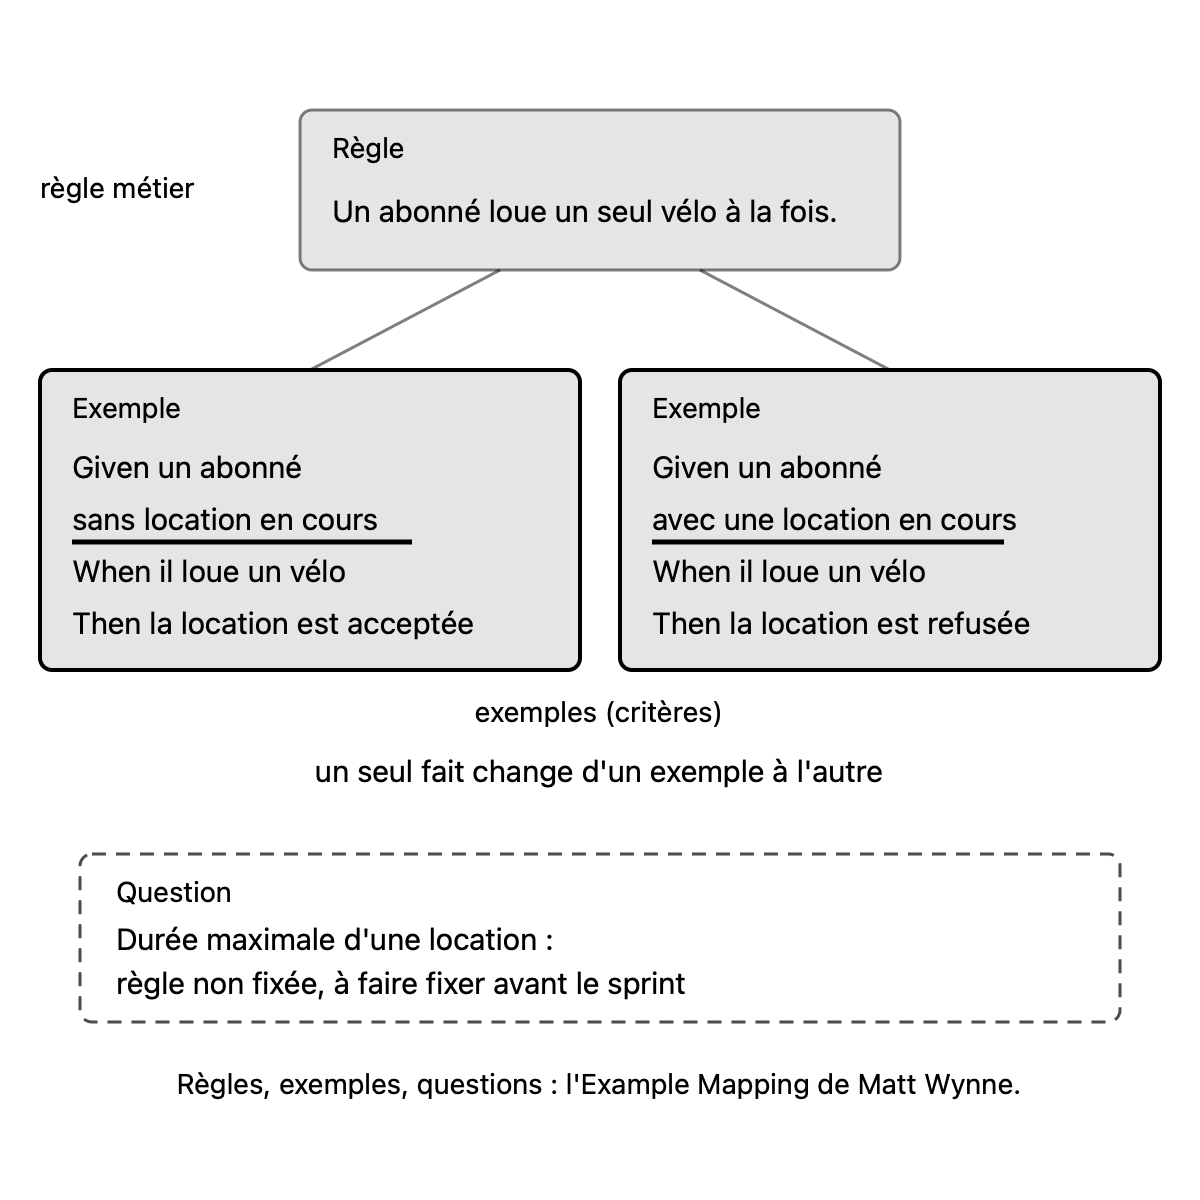
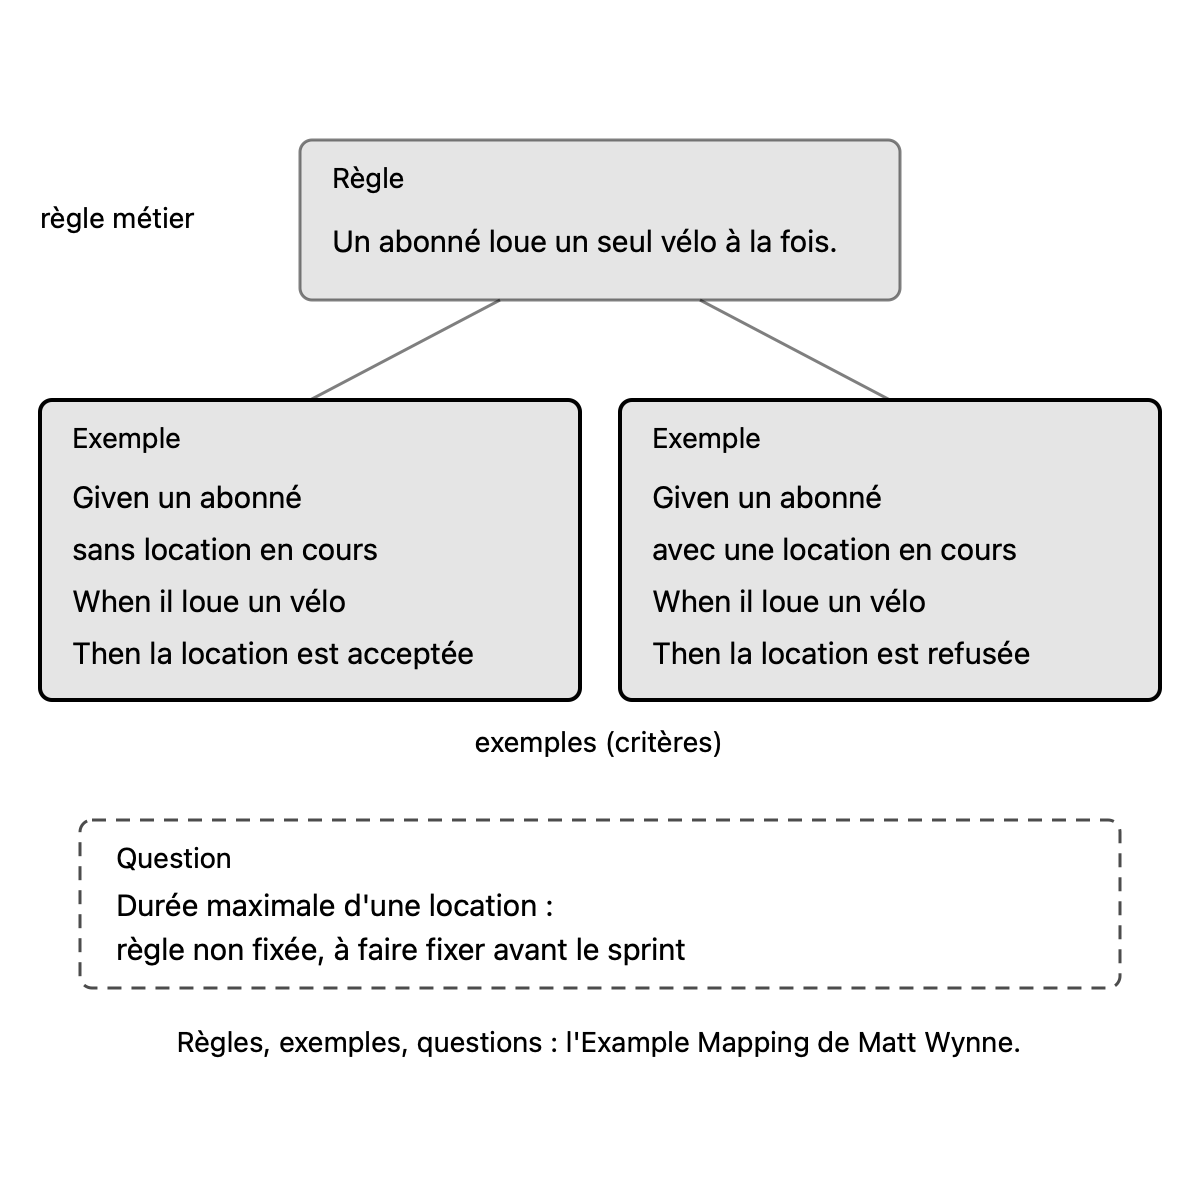
course(course:parcours-po): fix concept 8 after the review
Refs #23

diff --git a/construction/notes/S1-10-08-report.md b/construction/notes/S1-10-08-report.md
@@ -7,7 +7,7 @@ Old files: `parcours-po/course/concepts/08-criteres-regles.md` (CF), `parcours-p
 
 | checks | target existed | old diagrams | new diagrams | captions of more than one sentence |
 |---|---|---|---|---|
-| fail | no | 1 | 1 | 1 |
+| fail | no | 1 | 1 | 0 (1 before the fixes) |
 
 Result: **failed**. checks is read in code from the output below, which the check agent returns; target existed is read in code from the listing below, which the scope agent returns. The new concept is not compared with the old one (rule D on #23): the fresh-agent review judges it against SPEC.md and PROTOCOL.md.
 
@@ -40,8 +40,8 @@ Its sentences, where the inventory sends them (M11):
 
 #### regle-exemples-question.svg
 
-- Title: Une règle métier, deux exemples où un seul fait change, une règle non fixée
-- Caption: Une règle, deux exemples, une question. Les exemples en Given/When/Then illustrent la règle ; d'un exemple à l'autre, un seul fait change (souligné). Une règle non fixée reste une question, sans exemple dessous. Cas d'illustration inventé pour la page. (**4 sentences**: SPEC.md 7.2, principle 1)
+- Title: Une règle métier, deux exemples, une règle non fixée
+- Caption: Une règle métier est illustrée par des exemples en Given/When/Then, et une règle non fixée reste une question, sans exemple dessous. (1 sentence; the review reduced the diagram to 8a, dropped the one-variable note, and moved the invented-case sentence to sources.md)
 - Sub-concept: 8a
 - Idea: « Les critères sont souvent des exemples qui illustrent une règle, écrits en **Given/When/Then** (contexte, événement, résultat observable), **une variable à la fois**. Un critère ne fixe pas une règle restée ouverte. » (MDX and CF « L'essentiel » (Figure legende: « Les exemples en Given/When/Then illustrent la règle ; d'un exemple à l'autre, un seul fait change (souligné). Une règle non fixée reste une question, sans exemple dessous. »))
 
@@ -73,8 +73,8 @@ Renderings in `S1-10-08-report/`, beside this report.
 
 - M9 citation line: none added. The old « Sous-concepts » cites all five cases by their titles in « » (Trier les phrases de la story d'Abba, Le seuil des stations presque vides, Le critère d'Abba à corriger, Fraîcheur : que vérifie le Then ?, Les vélos disponibles d'Étienne), so « Consignes » is the old section verbatim.
 - M9: « Faits du fil rouge utilisés » is the old bank lead paragraph with its lead words « Faits du fil rouge utilisés : » dropped. The rest is verbatim, so the paragraph now starts in lowercase (« la story d'Abba … »). The bank has no other lead text.
-- M13 banned character: in teaching.md, « B1, ... retiré du service: 5 disponibles ; B2, ... signalé en panne: 6 disponibles » became ': 5 disponibles' and ': 6 disponibles' (ASCII: is banned by the French pack).
-- M13 banned character: in sources.md, the two rows 'Test rapide : « ... »: règle' and ': critère' became ': règle' and ': critère'.
+- M13 banned character: in teaching.md, « B1, ... retiré du service: 5 disponibles ; B2, ... signalé en panne: 6 disponibles » became ': 5 disponibles' and ': 6 disponibles' (the arrows of the old text, banned by the French pack, replaced by a colon).
+- M13 banned character: in sources.md, the two rows 'Test rapide : « ... »: règle' and ': critère' became ': règle' and ': critère' (the arrows of the old text replaced by a colon).
 - M10 structure: the old sub-tables (### Consensus et choix d'école, ### 8a, ### 8b, ### Renvois sans enseignement) are merged into the single « Affirmations » table that SPEC 4.4 requires. Rows keep their old order, and the ### headings are dropped.
 - M10 Nature, claim stated by an MDX affirmations item, so its kind: Scrum Guide row consensus; 'story porte des critères' consensus; critère et condition de satisfaction école; PO écrit les critères école (both rows map to the same MDX item, kind ecole); G/W/T créée par North et Matts école; BDD école; G/W/T sans outil école; Gherkin école; Specification by Example école; critère = condition vérifiable cours; T d'INVEST école; règle métier cours; critères = exemples école; Example Mapping école; both test-rapide rows cours (one MDX item 'Test de séparation' holds both questions); contrainte d'usage cours; règle non fixée cours; Given/When/Then définition école; Then vague cours and Critère sans When cours (both map to the MDX item 'Un When absent, un Then vague ou un mot flou'); variable à la fois cours; mot flou cours; solution dans le Then cours; G/W/T non obligatoire cours; DoD/DoR cours.
 - M10 Nature, no MDX item states the claim, so the matching ecoles item: row 'Le Then d'un critère de fraîcheur vérifie l'âge…' cours (matches the ecoles.cours item 'Le Then vérifie un résultat observable…', a general item, so the match is an inference); row 'La story attend tant qu'une règle n'est pas fixée' cours (the MDX affirmation on the règle non fixée states it); row 'Les 3C : la confirmation est le critère' consensus (ecoles.consensus item 2).
@@ -98,7 +98,7 @@ Renderings in `S1-10-08-report/`, beside this report.
 - M8: the blockquote is the CF quick-test text (Règle / Critère / un seul fait change). The paragraph is the Reflexe note "Formulation du cours, sans source externe." CF adds nothing beyond the blockquote.
 - M5/M6: the FilRouge becomes a blockquote opening "**Fil rouge :**". The three Pastilles of 8a1, 8b1 and 8b2 are kept where they stood: [cours], [école], [cours], [cours]. The MDX had no <h4> outside course.yaml.
 - M6/M11: the Figure in L'essentiel becomes one image line, placed after the essentials paragraph. Its alt text is the diagram title, and the frontmatter diagrams entry is verbatim as given.
-- M13: no banned character (em-dash, arrow) and no typographic apostrophe found, so no replacement was made.
+- M13: apart from the arrows replaced above, no banned character (em-dash) and no typographic apostrophe found.
 
 ## Checks
 
@@ -124,8 +124,10 @@ Failing the run:
 - sources: fail: concepts/08-criteres-regles/sources.md:64 reference S12: type "interne (observation de session, un seul apprenant : base faible)" must be one or more of primaire, secondaire, marketing, separated by commas
 - glossary-order: fail: concepts/08-criteres-regles/concept.md:63 uses the term "Definition of Ready", introduced by concept 11 (glossary.md:58), which comes later
 
-## Contributor corrections
+## Fixes after the run
 
 - sources.md S11 and S12 types rewritten "primaire (interne : <old remark>)" (ruling on #23, until #140 and #141). `sources` now passes.
 - `glossary-order` remains on "Definition of Ready" (concept.md:63): rule A, fixed by #166.
 - No arrow or em-dash survives (`typography` ok); no orphan reference; "Consignes" cites all five cases already (rule B, no line added).
+- Review of PR #189: the diagram is now for 8a only (rule, two examples, the unfixed rule as a question), one-sentence caption, the 8b2 note and its underlines dropped, group ids all `8a-*`, viewBox 600x500. The question card is `secondary` (contrast, as the inventory says). The sentence "Cas d'illustration inventé pour la page." moved to a row of sources.md.
+- concept.md: the sentence pointing to the drawing reworded; Pièges "Un Then vague" merged. teaching.md: « Schéma » rewritten for the new drawing, « Faits du fil rouge utilisés » capitalised, the fallback case headed "(8b1, rechange)". PNG regenerated.

diff --git a/courses/parcours-po/concepts/08-criteres-regles/concept.md b/courses/parcours-po/concepts/08-criteres-regles/concept.md
@@ -33,8 +33,8 @@ stances:
       refs: ["S10"]
 diagrams:
   - file: regle-exemples-question.svg
-    title: "Une règle métier, deux exemples où un seul fait change, une règle non fixée"
-    caption: "Une règle, deux exemples, une question. Les exemples en Given/When/Then illustrent la règle ; d'un exemple à l'autre, un seul fait change (souligné). Une règle non fixée reste une question, sans exemple dessous. Cas d'illustration inventé pour la page."
+    title: "Une règle métier, deux exemples, une règle non fixée"
+    caption: "Une règle métier est illustrée par des exemples en Given/When/Then, et une règle non fixée reste une question, sans exemple dessous."
     subconcept: 8a
 ---
 
@@ -46,7 +46,7 @@ diagrams:
 
 Un **critère d'acceptation**, propre à une story, dit quand elle est faite : un testeur tranche OK ou KO sans poser de question (le T d'INVEST, concept 7). Une **règle métier** est vraie hors de la story, et d'autres stories s'en servent. Les critères sont souvent des exemples qui illustrent une règle, écrits en **Given/When/Then** (contexte, événement, résultat observable), **une variable à la fois**. Un critère ne fixe pas une règle restée ouverte (concept 8a2).
 
-![Une règle métier, deux exemples où un seul fait change, une règle non fixée](regle-exemples-question.svg)
+![Une règle métier, deux exemples, une règle non fixée](regle-exemples-question.svg)
 
 ## 8a Critère ou règle métier
 
@@ -80,7 +80,7 @@ Un critère devient vite flou par quatre défauts. Un **When absent** : on ne sa
 
 ### 8b2 Une variable à la fois
 
-D'un exemple à l'autre, **ne changer qu'un fait du Given** [cours] : si le Then change, on sait quelle règle joue ; si un test échoue, on sait quoi corriger. Deux exemples qui diffèrent par deux faits à la fois ne disent plus lequel est en cause. Sur le schéma, les deux exemples ne diffèrent que par la location en cours.
+D'un exemple à l'autre, **ne changer qu'un fait du Given** [cours] : si le Then change, on sait quelle règle joue ; si un test échoue, on sait quoi corriger. Deux exemples qui diffèrent par deux faits à la fois ne disent plus lequel est en cause. Ainsi, pour la règle « un abonné loue un seul vélo à la fois », les deux exemples ne diffèrent que par la location en cours.
 
 Il faut aussi que chaque Then reste fidèle aux règles fixées : un Then qui exclut un cas que la règle admet invente une règle en douce. Exemple inventé : « l'abonné suspendu ne peut pas louer », alors qu'aucune règle ne le dit. On relit donc chaque Then contre les règles du domaine, comme on le fait pour un critère qui s'appuie sur une règle non fixée.
 
@@ -90,7 +90,7 @@ Il faut aussi que chaque Then reste fidèle aux règles fixées : un Then qui ex
 - **Fixer une règle non fixée dans un critère** (cas inventé : une durée maximale de location, non fixée) : le critère décide en douce. Le PO ne l'invente pas et ne la tranche pas à la place de l'utilisateur concerné ; il la fait fixer avant que la story parte (concept 7a2 ; DoR, concept 11).
 - **Inventer une règle dans le Then** (cas inventé : « l'abonné suspendu ne peut pas louer », si aucune règle ne le dit) : relire chaque Then contre les règles fixées.
 - **Un mot flou** (« récent », « rapidement ») : le testeur doit encore poser une question. Écrire la valeur fixée (cas inventé : « chargée en moins de 3 secondes »). Un mot dont la règle n'est pas fixée (« location trop longue ») relève du piège précédent.
-- **Un Then vague ou un When absent ou mal placé** : sans événement ni résultat observable, on ne sait pas quoi vérifier ni quand. Un Then vague (« l'utilisateur est informé ») : écrire ce que le testeur vérifie (un nombre, son âge).
+- **Un Then vague ou un When absent ou mal placé** : sans événement ni résultat observable, on ne sait pas quoi vérifier ni quand. Écrire l'événement, et ce que le testeur vérifie (un nombre, son âge) au lieu de « l'utilisateur est informé ».
 - **Le moyen au lieu du résultat** (« la page est servie depuis un cache ») : le Then vérifie l'âge des données que l'utilisateur lit, pas la fréquence de rafraîchissement.
 - **La solution dans le critère** (« il reçoit un export CSV ») : on fige ce que l'équipe pouvait négocier (concept 7b).
 - **Reformuler une contrainte plus large qu'elle n'est** (« hors ligne » pour « sans réseau pendant le trajet », exemple inventé) : la reprendre telle qu'elle est posée.

diff --git a/courses/parcours-po/concepts/08-criteres-regles/sources.md b/courses/parcours-po/concepts/08-criteres-regles/sources.md
@@ -27,6 +27,7 @@ n'ont pas de source. Les sections entre parenthèses sont celles du fichier du c
 | Une règle métier est une vérité du domaine, valable hors de la story et réutilisable (L'essentiel, 8a) | [S11] ; appui partiel [S6], [S7] | Définition du glossaire du cours, sans source externe. Gherkin : le mot-clé Rule représente « one business rule that should be implemented » (depuis Gherkin v6). « Valable hors de la story » est la formulation du cours | cours |
 | Les critères sont souvent des exemples qui illustrent une règle (L'essentiel, Schéma) | [S7], [S6] | Wynne : règles sur cartes bleues, exemples sur cartes vertes, « For each rule, we may need one or more examples to illustrate it ». Gherkin : Rule regroupe des Example (« Scenario is a synonym of the keyword Example »). Chez Wynne, « rules » et « acceptance criteria » vont sur la même carte bleue : il ne sépare pas critère et règle comme le cours (voir « Non vérifié ») | école |
 | Test rapide : « est-ce encore vrai si cette story n'existe pas ? » : règle (Le test rapide) | aucune | Heuristique du cours, sans source | cours |
+| Le cas du schéma (un abonné loue un seul vélo à la fois, une location en cours, une durée maximale de location non fixée) est inventé pour l'illustration (L'essentiel, Schéma) | aucune | Cas d'illustration inventé, sans source | cours |
 | Example Mapping : règles en bleu, exemples en vert, questions en rouge (Schéma) | [S7] | Wynne : cartes bleues pour les règles, vertes pour les exemples ; une question sans réponse va sur une carte rouge | école |
 | Test rapide : « un testeur peut-il dire OK ou KO sans me poser de question ? » : critère (Le test rapide) | [S3] en partie | Découle du T de Wake (pouvoir écrire un test) ; la formulation est celle du cours | cours |
 | Une contrainte d'usage (téléphone basique) s'écrit dans un critère ; l'équipe choisit la solution, le N d'INVEST (8a, banque) | [S3] | Wake, N : « It is not an explicit contract for features; rather, details will be co-created by the customer and programmer » ; « A good story captures the essence, not the details ». Mettre la contrainte dans le critère est la lecture du cours (concept 7b ; amélioration de session (`07-invest.md`, historique git)) | cours |

diff --git a/courses/parcours-po/concepts/08-criteres-regles/teaching.md b/courses/parcours-po/concepts/08-criteres-regles/teaching.md
@@ -19,7 +19,7 @@
 
 ## Faits du fil rouge utilisés
 
-la story d'Abba (« En tant qu'abonné, je veux savoir avant de
+La story d'Abba (« En tant qu'abonné, je veux savoir avant de
 partir s'il reste un vélo à ma station, afin de ne pas me déplacer pour rien. ») ; Abba n'a
 qu'un téléphone basique, sans l'appli ; règles fixées : un vélo disponible est un vélo à quai et
 louable, la station d'un abonné est celle qu'il a choisie comme favorite, fraîcheur visée de
@@ -131,7 +131,7 @@ rouge. Le prof ne demande jamais à l'apprenant de fixer une règle (un seuil, u
 - **Ce qui marche** : « qu'est-ce que le testeur regarde pour dire OK ? ». Si un défaut reste
   après la réponse, dire ce qui est corrigé et relancer sur celui-là seul.
 
-### Fraîcheur : que vérifie le Then ? (8b1)
+### Fraîcheur : que vérifie le Then ? (8b1, rechange)
 
 - **Explication** : le Then vérifie un résultat observable par l'utilisateur, pas un moyen
   choisi par l'équipe.
@@ -184,9 +184,9 @@ rouge. Le prof ne demande jamais à l'apprenant de fixer une règle (un seuil, u
 
 ## Schéma
 
-Deux colonnes, sur un cas inventé pour l'illustration. À gauche, la règle métier sur une
-carte bleue (« un abonné loue un seul vélo à la fois »). À droite, les exemples en Given/When/Then sur
-des cartes vertes, reliés par un trait à la règle qu'ils illustrent ; dans chaque paire
-d'exemples, le seul fait qui change est surligné. En bas, une carte rouge « durée maximale d'une
-location : à faire fixer avant le sprint », sans exemple dessous. Légende : « couleurs de
-l'Example Mapping (Matt Wynne) : règles en bleu, exemples en vert, questions en rouge ».
+Un seul dessin, sur un cas inventé pour l'illustration. En haut, la règle métier « un abonné loue
+un seul vélo à la fois ». Dessous, reliés à elle par un trait, deux exemples en Given/When/Then :
+l'un pour un abonné sans location en cours (la location est acceptée), l'autre pour un abonné
+avec une location en cours (elle est refusée). En bas, une carte en pointillé « durée maximale
+d'une location : règle non fixée, à faire fixer avant le sprint », sans exemple dessous. Légende :
+« Règles, exemples, questions : l'Example Mapping de Matt Wynne ».
